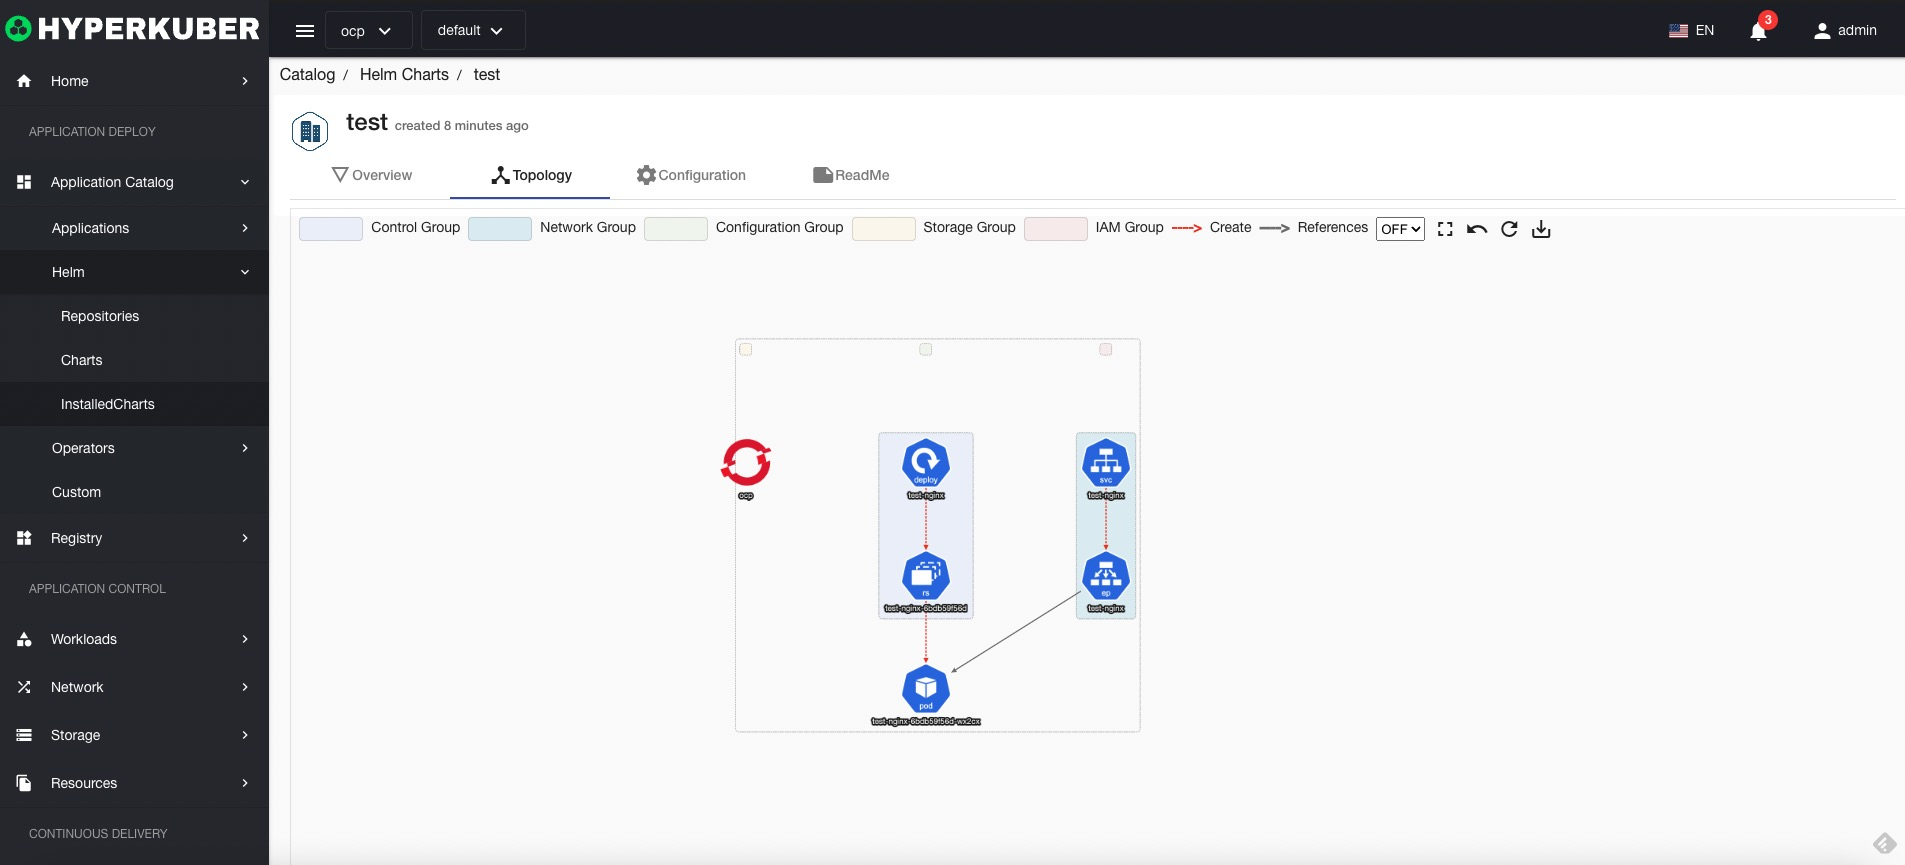
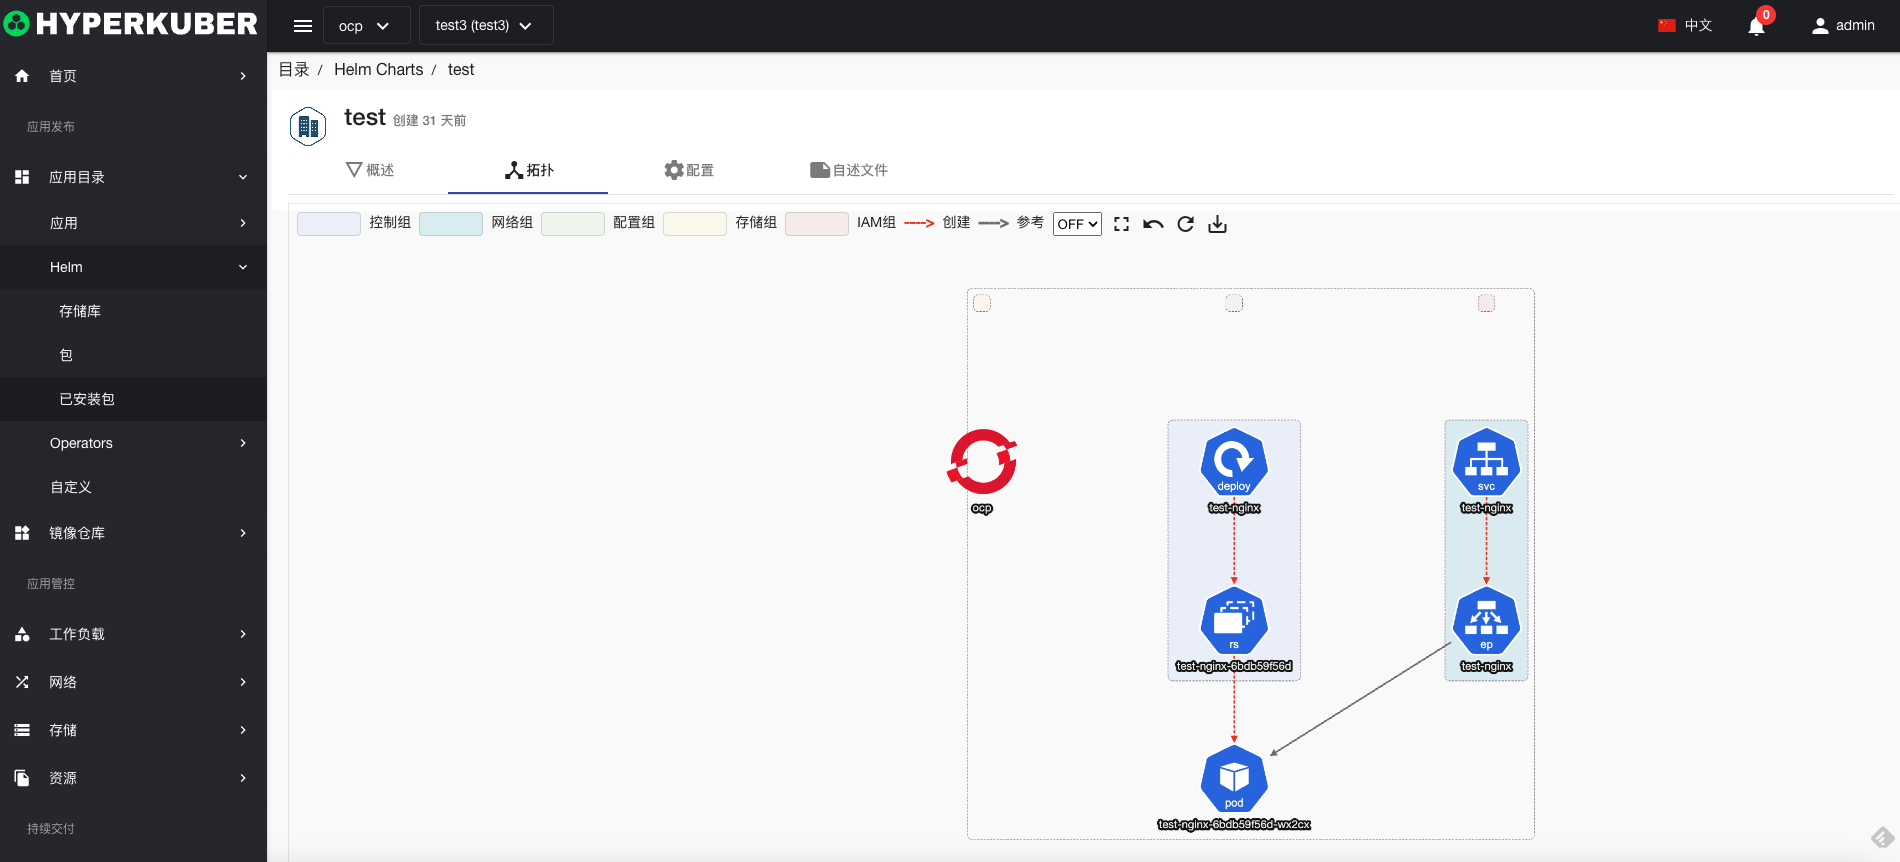
update zh images

diff --git a/assets/user-guide/application/operator-zh.md b/assets/user-guide/application/operator-zh.md
@@ -22,21 +22,24 @@
 #### 详情
 选择"InstalledOperators”菜单,点击 “名称”连接：即可进入详情页面。
 安装operator的概览信息
+
 ![Minion](../../../assets/images/operator/installed-info1.jpg)
 安装operator事件显示
+
 ![Minion](../../../assets/images/operator/installed-info2.jpg)
 安装operator中CRD显示以及操作
+
 ![Minion](../../../assets/images/operator/installed-info3.jpg)
 ![Minion](../../../assets/images/operator/installed-info4.jpg)
 * Label
 支持修改Operator的Label信息
-![Minion](../../../assets/images/operator/info-label.jpg)
+
 * Annotations
 支持修改Operator的Annotation信息
-![Minion](../../../assets/images/operator/info-annotation.jpg)
+
 * Yaml
 支持修改Operator的Yaml信息
-![Minion](../../../assets/images/operator/info-yaml.jpg)
+
 
 #### 删除
 选择需要删除的已安装的chart包，点击多选框选择，点击“删除按钮”，在确定输入框输入“yes”，即可完成删除操作。

diff --git a/assets/user-guide/application/helm-zh.md b/assets/user-guide/application/helm-zh.md
@@ -37,10 +37,10 @@ helm chart是同步helm Repositories仓库的chart。
 * 版本： Helm chart 安装应用版本
 * 安装多集群： Helm chart 安装目标集群
 
-## InstalledCharts
+## 已安装包
 点击左侧”应用目录“-“InstalledCharts”菜单，进入相关页面操作
 ![Minion](../../../assets/images/helm/ins-list.jpg)
-### InstalledCharts操作
+### 已安装包操作
 
 #### 详情
 选择"InstalledCharts”菜单,点击 “名称”连接：即可进入详情页面。
